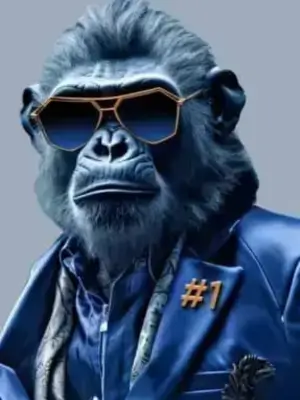
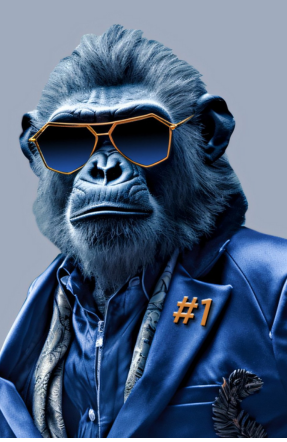
writer

diff --git a/src/App.jsx b/src/App.jsx
@@ -8,9 +8,9 @@ import { Collections, Sell } from "./common/data";
 import AnimatedSection from "./components/AnimateSection";
 function App() {
   return (
-    <>
+    <div className="border-start border-1 container ps-0">
       <Navbar />
-      <section className="container">
+      <section className="container ps-0">
         <HeroSection />
         <p className="fw-bold fs-4">Our Collection</p>
         <div className="d-flex justify-content-md-between fw-semibold align-items-end flex-wrap">
@@ -50,7 +50,7 @@ function App() {
         </div>
       </section>
       <Footer />
-    </>
+    </div>
   );
 }
 

diff --git a/src/components/HeroSection.jsx b/src/components/HeroSection.jsx
@@ -44,7 +44,7 @@ const HeroSection = () => {
                         animate={{ opacity: 1, y: 0 }}
                         transition={{ duration: 0.5 }}
                     >
-                        <img src="./assets/images/monkey.webp" alt="" className='rounded-top-pill rounded-bottom-pill img-fluid' width={280} height={380} />
+                        <img src="./assets/images/monkey.webp" alt="" className='rounded-top-pill rounded-bottom-pill img-fluid' width={300} height={400} />
                     </motion.div>
                 </div>
             </div>

diff --git a/src/components/Navbar.jsx b/src/components/Navbar.jsx
@@ -9,7 +9,7 @@ const Navbar = () => {
 
     return (
         <div>
-            <nav className="navbar navbar-expand-lg mb-5 shadow-none navbar-before-scroll py-3">
+            <nav className="navbar navbar-expand-lg mb-5 shadow-none navbar-before-scroll py-3 border-bottom border-1">
                 <div className="container">
                     <a className="navbar-brand align-items-center" href='#'>
                         <img src="/assets/icons/logo.svg" className='img-fluid' alt="Logo" width={36} height={35.39}/>

diff --git a/src/components/Footer.jsx b/src/components/Footer.jsx
@@ -2,7 +2,7 @@ import React from 'react'
 
 const Footer = () => {
     return (
-        <div className='container pt-5 pb-3'>
+        <div className='container pt-5 pb-3 ps-0'>
             <p><img src="/assets/icons/logo.svg" className='img-fluid' alt="Logo" width={36} height={35.39}/></p>
             <hr />
             <div className="row justify-content-between">

diff --git a/src/index.css b/src/index.css
@@ -29,7 +29,6 @@ body {
 @media (min-width: 1200px) {
   .heroImage {
     margin-top: 2%;
-    margin-left: -5%;
   }
 
   .mainTitle {
@@ -51,14 +50,12 @@ body {
 
   .heroImage {
     margin-top: 2%;
-    margin-left: -9%;
   }
 }
 
 @media (max-width: 992px) {
   .heroImage {
     margin-top: 2%;
-    margin-left: 0;
   }
 }
 
